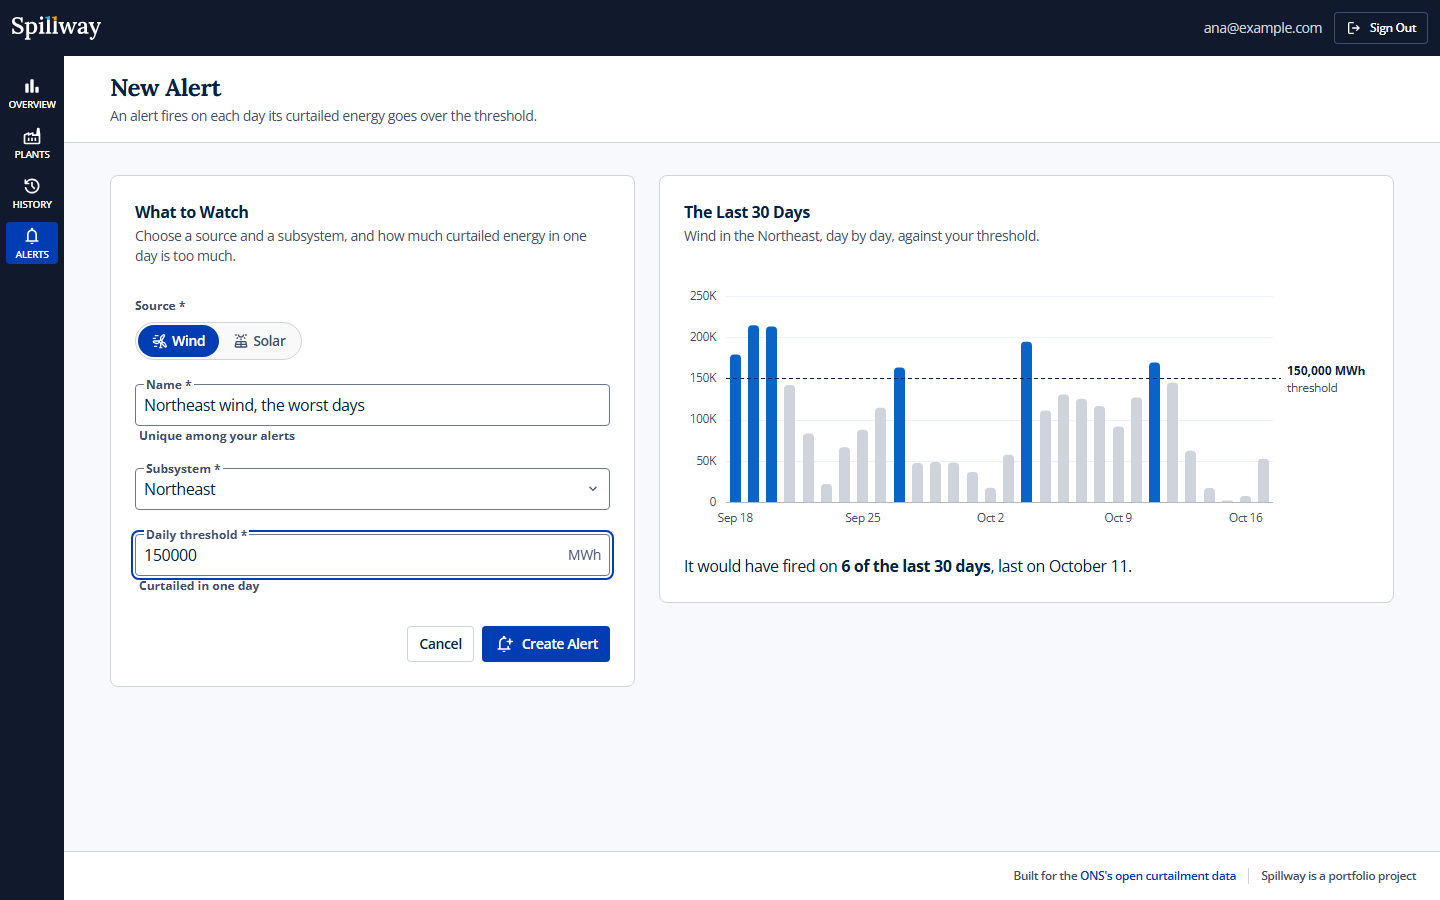
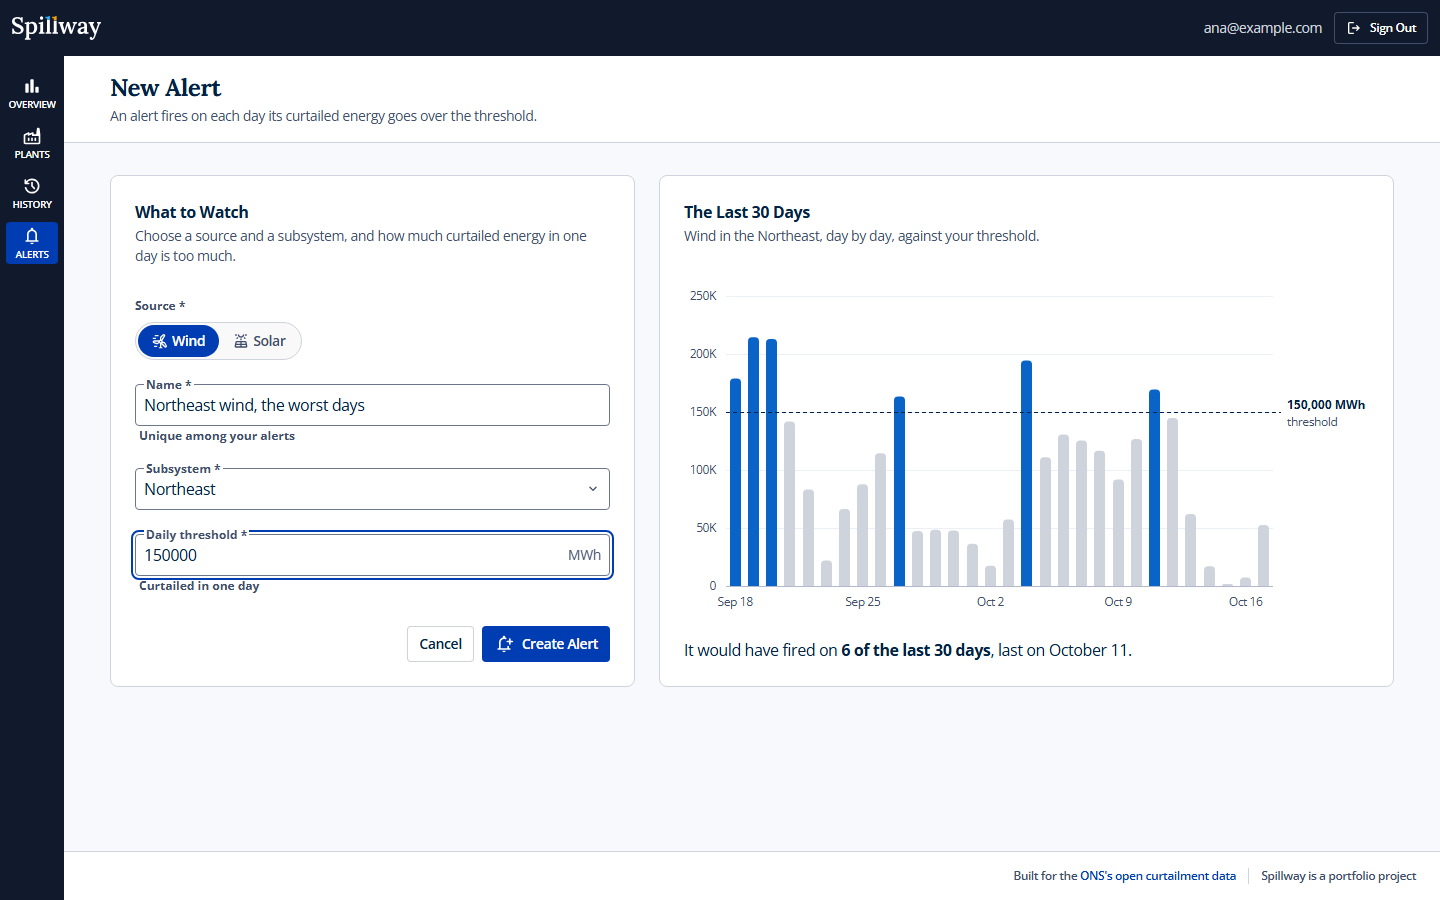
fix(web): make the preview as tall as the alert form

diff --git a/apps/web/src/routes/alerts/new/+page.svelte b/apps/web/src/routes/alerts/new/+page.svelte
@@ -85,7 +85,11 @@
 />
 
 <div class="mx-auto flex max-w-[83.25rem] flex-col gap-600 px-600 py-700">
-  <div class="grid gap-600 laptop:grid-cols-[minmax(0,5fr)_minmax(0,7fr)] laptop:items-start">
+  <!--
+    Side by side, the two cards are as tall as each other: the preview's chart
+    grows to where the form ends, whatever the form shows.
+  -->
+  <div class="grid gap-600 laptop:grid-cols-[minmax(0,5fr)_minmax(0,7fr)]">
     <Card
       title="What to Watch"
       description="Choose a source and a subsystem, and how much curtailed energy in one day is too much."

diff --git a/apps/web/src/lib/features/alerts/Preview.svelte b/apps/web/src/lib/features/alerts/Preview.svelte
@@ -54,7 +54,7 @@
       rows: [{ label: s.label, value: `${int(days[i] ?? 0)} MWh`, fill: s.fill }],
     })}
     fallbackWidth={718}
-    class="h-[16.25rem]"
+    class="min-h-[16.25rem] flex-1"
   />
   <p class="ts-primary-body-l text-text-primary-default" aria-live="polite">
     {#if threshold === undefined}
